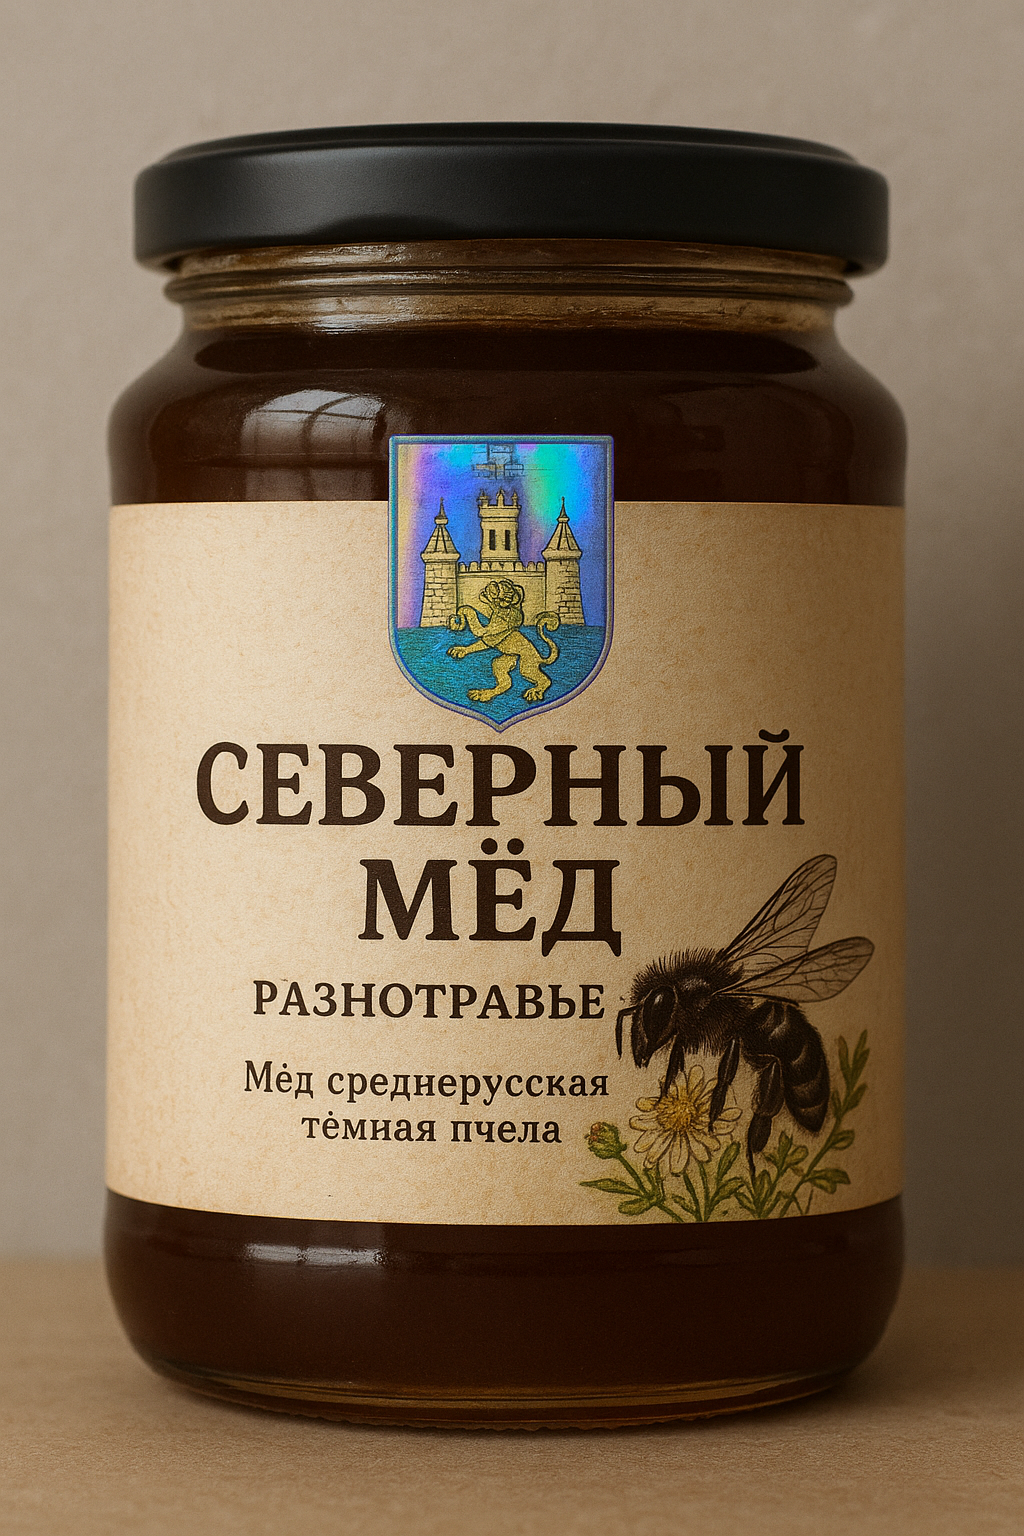
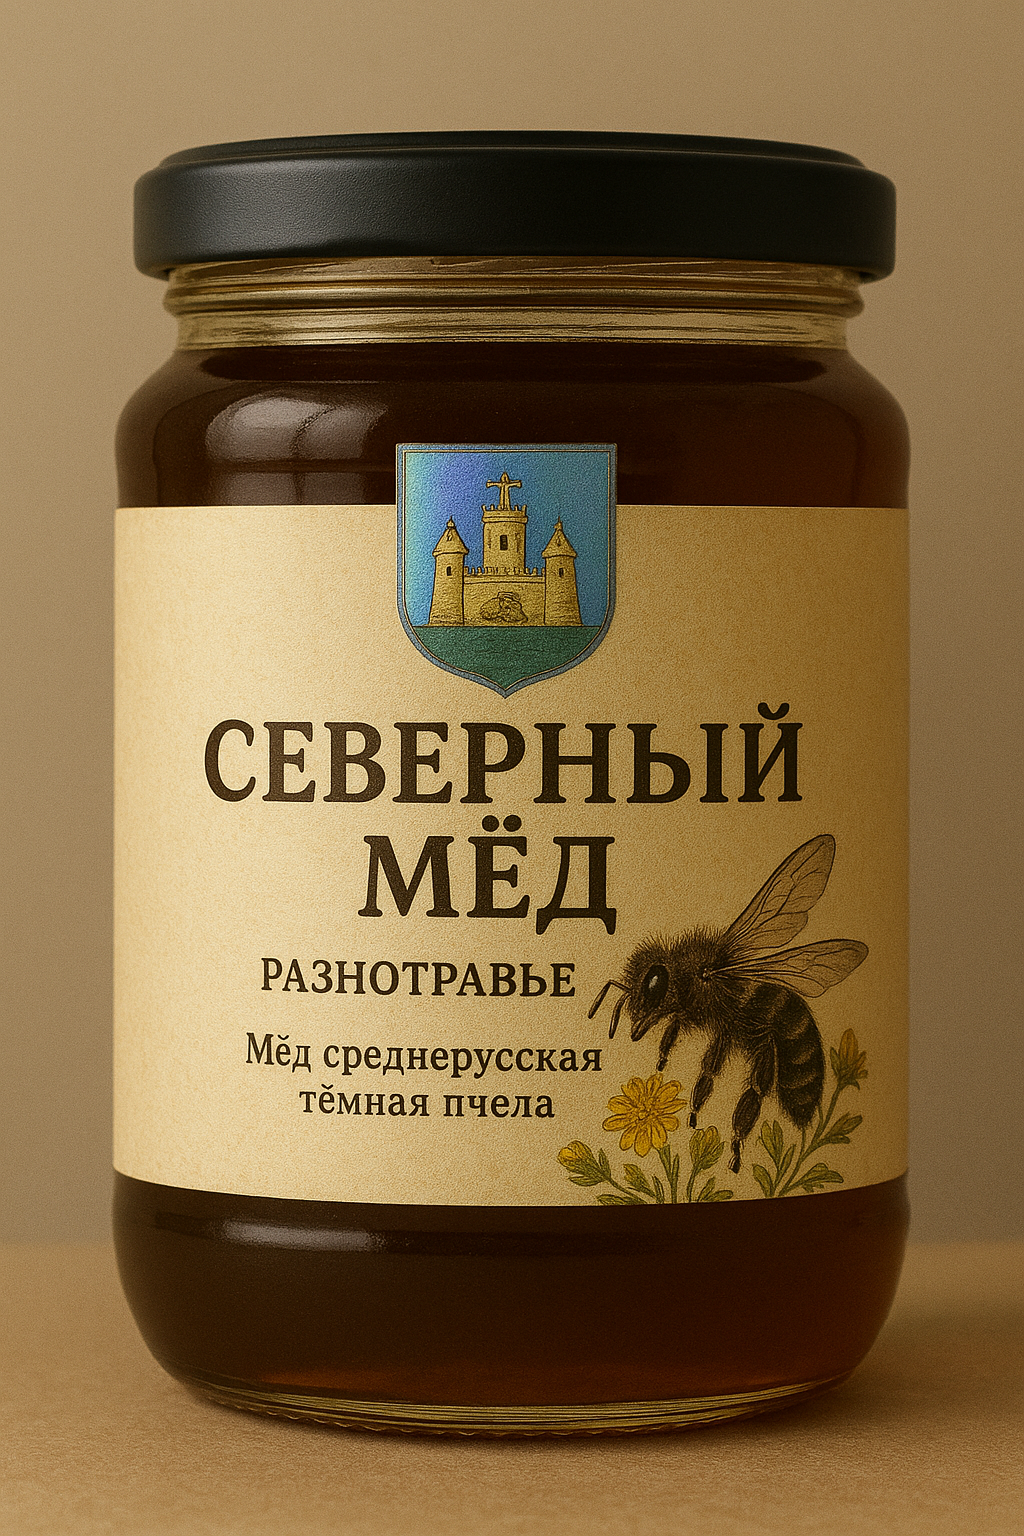
123

diff --git a/index.html b/index.html
@@ -881,7 +881,7 @@
             <div class="product-grid">
                 <div class="product-card">
                     <div class="product-image">
-                        <img src="wildflower-bee-bright.png" alt="Цветочный мёд из Псковской области">
+                        <img src="wildflower-bee.png" alt="Цветочный мёд из Псковской области">
                     </div>
                     <div class="product-content">
                         <h4 class="product-title">Цветочный мёд</h4>
